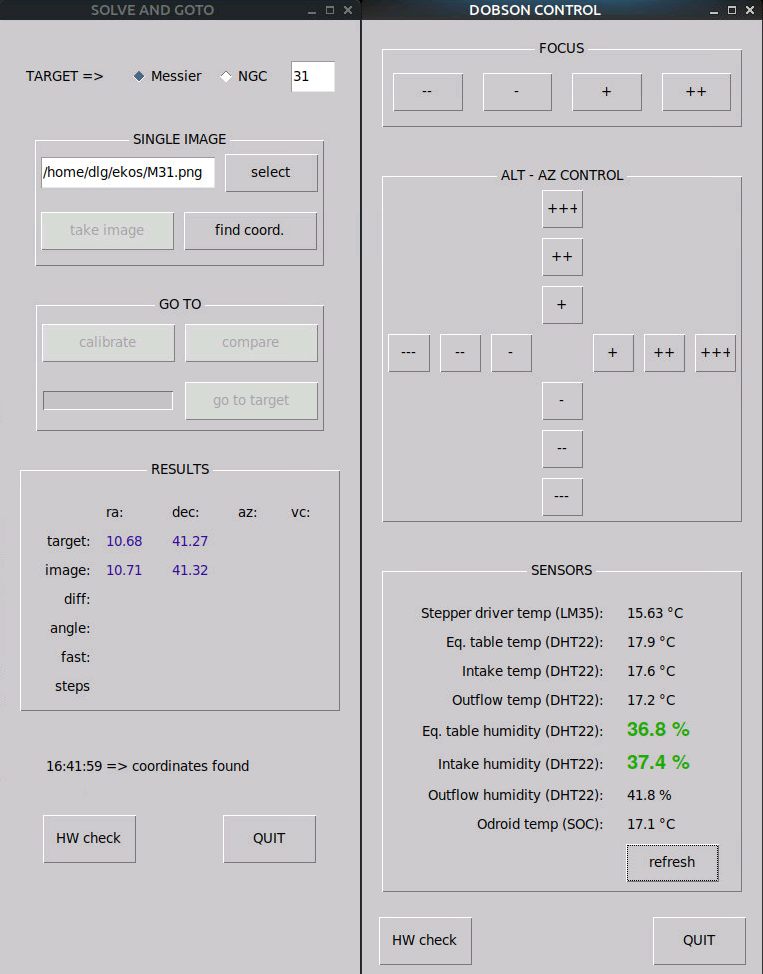
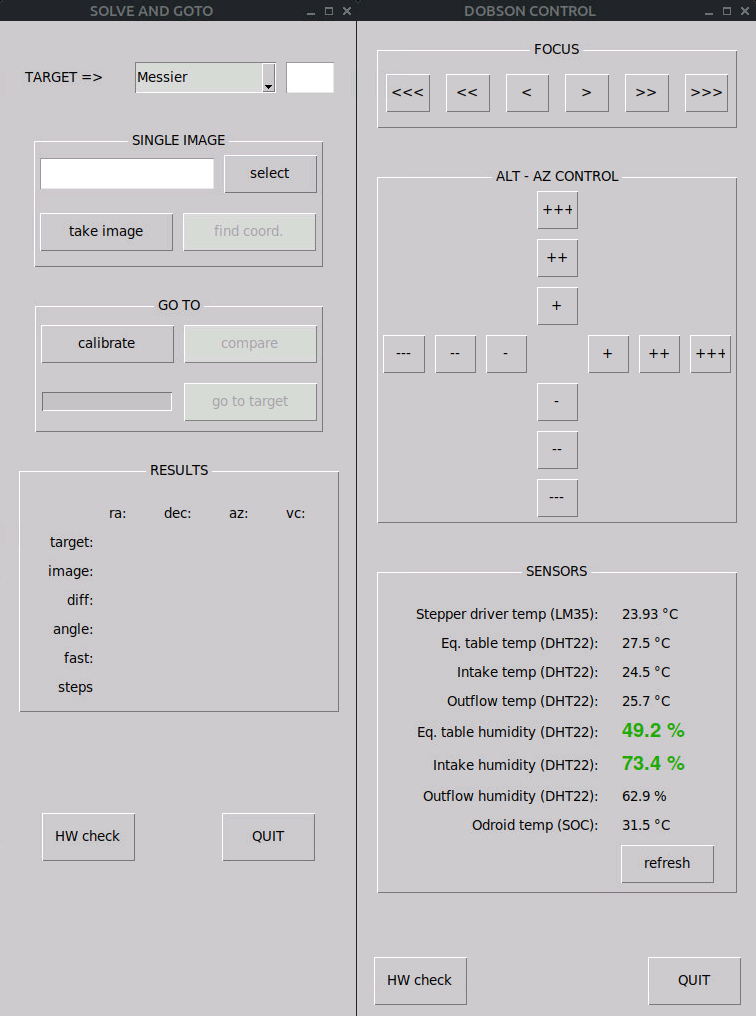
catalogue dropdown + focus 3 buttons

diff --git a/alt-az_mount/odroid_sensors_motors_gui.py b/alt-az_mount/odroid_sensors_motors_gui.py
@@ -58,7 +58,7 @@ def hw_check():
     kill and relaunch window
     """
     root.destroy()
-    subprocess.run(['python3','dobson_sensors_motors_gui.py'])
+    subprocess.run(['python3','odroid_sensors_motors_gui.py'])
     
 
 def get_sensors():
@@ -168,6 +168,12 @@ def focusmoins():
 
 def focusmoinsmoins():
     ser.write(bytes('T','UTF-8'))
+    
+def focusmoinsfine():
+    ser.write(bytes('B','UTF-8'))
+    
+def focusplusfine():
+    ser.write(bytes('N','UTF-8'))        
 
 
     
@@ -185,20 +191,27 @@ frame_focus.columnconfigure(1, weight=1)
 frame_focus.columnconfigure(2, weight=1)
 frame_focus.columnconfigure(3, weight=1)
 frame_focus.columnconfigure(4, weight=1)
+frame_focus.columnconfigure(5, weight=1)
 
 # widgets
-focus_moinsmoins_button = ttk.Button(frame_focus, text="<<",command=focusmoinsmoins)
-focus_moinsmoins_button.grid(column=0, row=0, sticky=tk.N, padx=10, pady=15, ipadx=5,ipady=5)
+focus_moinsmoins_button = ttk.Button(frame_focus, text="<<<",command=focusmoinsmoins)
+focus_moinsmoins_button.grid(column=0, row=0, sticky=tk.N, padx=8, pady=15, ipadx=5,ipady=5)
 
-focus_moins_button = ttk.Button(frame_focus, text="<",command=focusmoins)
-focus_moins_button.grid(column=1, row=0, sticky=tk.N, padx=10, pady=15, ipadx=5,ipady=5)
+focus_moins_button = ttk.Button(frame_focus, text="<<",command=focusmoins)
+focus_moins_button.grid(column=1, row=0, sticky=tk.N, padx=8, pady=15, ipadx=5,ipady=5)
+
+focus_moins_fine_button = ttk.Button(frame_focus, text="<",command=focusmoinsfine)
+focus_moins_fine_button.grid(column=2, row=0, sticky=tk.N, padx=8, pady=15, ipadx=5,ipady=5)
 
 
-focus_plus_button = ttk.Button(frame_focus, text=">",command=focusplus)
-focus_plus_button.grid(column=3, row=0, sticky=tk.N, padx=10, pady=15, ipadx=5,ipady=5)
+focus_plus_fine_button = ttk.Button(frame_focus, text=">",command=focusplusfine)
+focus_plus_fine_button.grid(column=3, row=0, sticky=tk.N, padx=8, pady=15, ipadx=5,ipady=5)
 
-focus_plusplus_button = ttk.Button(frame_focus, text=">>",command=focusplusplus)
-focus_plusplus_button.grid(column=4, row=0, sticky=tk.N, padx=10, pady=15, ipadx=5,ipady=5)
+focus_plus_button = ttk.Button(frame_focus, text=">>",command=focusplus)
+focus_plus_button.grid(column=4, row=0, sticky=tk.N, padx=8, pady=15, ipadx=5,ipady=5)
+
+focus_plusplus_button = ttk.Button(frame_focus, text=">>>",command=focusplusplus)
+focus_plusplus_button.grid(column=5, row=0, sticky=tk.N, padx=8, pady=15, ipadx=5,ipady=5)
 
 
 # define frame for steppers azimut and alt 
@@ -354,10 +367,10 @@ hw_check.grid(column=0, row=20, columnspan=2, sticky=tk.E, padx=5, pady=5, ipadx
 quit_button = ttk.Button(root, text="QUIT",command=exit)
 quit_button.grid(column=5, row=20, columnspan=2, sticky=tk.W, padx=5, pady=5, ipadx=5,ipady=10)
 
-path_to_device = Path('/dev/ttyACM0')
+arduino_is_here = subprocess.getoutput('ls /dev/ttyACM0')  #not very pythonian but path is_file returned false
 
 
-if path_to_device.is_file():
+if arduino_is_here == "/dev/ttyACM0":
     # initialise serial connection (device, baud rate)
     ser = serial.Serial('/dev/ttyACM0', 9600)
     # clear the serial line (optional)
@@ -381,6 +394,8 @@ else:
     focus_moins_button.configure(state='disabled')
     focus_plusplus_button.configure(state='disabled')
     focus_plus_button.configure(state='disabled')
+    focus_plus_fine_button.configure(state='disabled')
+    focus_moins_fine_button.configure(state='disabled')
    
 
 # the main loop keeps the window open

diff --git a/alt-az_mount/odroid_solve_and_goto_gui.py b/alt-az_mount/odroid_solve_and_goto_gui.py
@@ -107,7 +107,7 @@ def hw_check():
     kill and relaunch window
     """
     root.destroy()
-    subprocess.run(['python3','solve_and_goto.py'])
+    subprocess.run(['python3','odroid_solve_and_goto_gui.py'])
     
 
 # stepper action
@@ -309,7 +309,7 @@ def browse_image():
     """
     global filename
     image_name.delete(0,'end')          # clear field from character 0 to end
-    filename = tk.filedialog.askopenfilename(initialdir="/home/dlg/ekos/",filetypes=[("png files","*.png"),("fits files","*.fits"),("fit files","*.fit")])
+    filename = tk.filedialog.askopenfilename(initialdir="/home/dlg/Documents/python",filetypes=[("png files","*.png"),("fits files","*.fits"),("fit files","*.fit")])
     image_name.insert(tk.END, filename) # fails without this line
 
     ref = reference.get()
@@ -345,12 +345,26 @@ def get_target_coord():
     # clear error label    
     error_label.config(text="               ", background=tk_bkgd)
     # build skyobject variable with spaces as in the data file
-    if ( cat == "M" and len(ref) == 1 ):
+    if ( cat == "Messier" and len(ref) == 1 ):
         skyobject = "M   " + ref
-    if ( cat == "M" and len(ref) == 2 ):
+    if ( cat == "Messier" and len(ref) == 2 ):
         skyobject = "M  " + ref
-    if ( cat == "M" and len(ref) == 3 ):
+    if ( cat == "Messier" and len(ref) == 3 ):
         skyobject = "M " + ref
+
+    if ( cat == "IC" and len(ref) == 2 ):
+        skyobject = "IC    " + ref
+    if ( cat == "IC" and len(ref) == 3 ):
+        skyobject = "IC   " + ref
+    if ( cat == "IC" and len(ref) == 4 ):
+        skyobject = "IC  " + ref        
+        
+    if ( cat == "VDB" and len(ref) == 1 ):
+        skyobject = "vdB   " + ref
+    if ( cat == "VDB" and len(ref) == 2 ):
+        skyobject = "vdB  " + ref
+    if ( cat == "VDB" and len(ref) == 3 ):
+        skyobject = "vdB " + ref                
 
     if ( cat == "NGC" and len(ref) == 1 ):
         skyobject = "NGC    " + ref
@@ -915,12 +929,11 @@ target_label = ttk.Label(frame_target, text="TARGET =>",anchor="w",width=18)
 target_label.grid(column=0, row=1, sticky=tk.W, padx=5, pady=15)
 target_label.configure(background=tk_bkgd)
 
-messier_radio_button = ttk.Radiobutton(frame_target, text="Messier", value="M", variable=catalog, width=12)
-messier_radio_button.grid(column=1, row=1, sticky=tk.E, padx=5, pady=5, ipadx=5,ipady=5)
-messier_radio_button.invoke()
 
-ngc_radio_button = ttk.Radiobutton(frame_target, text="NGC",value="NGC", variable=catalog, width=10)
-ngc_radio_button.grid(column=2, row=1, sticky=tk.W, padx=5, pady=5, ipadx=5,ipady=5)
+catalog_dropdown = ttk.Combobox(frame_target,textvariable=catalog,state='readonly')
+catalog_dropdown['values']=('Messier','NGC','IC','VDB')
+catalog_dropdown.grid(column=1, row=1, sticky=tk.E, padx=5, pady=5, ipadx=5,ipady=5) 
+catalog_dropdown.set('Messier')
 
 object_ref = ttk.Entry(frame_target,textvariable=reference,width=10)
 object_ref.grid(column=3, row=1, sticky=tk.W, padx=5, pady=5, ipadx=5,ipady=5)

diff --git a/README.md b/README.md
@@ -136,8 +136,8 @@ You can see more images on my [astrobin](https://www.astrobin.com/users/d.legour
 
 # ROADMAP
 
-* v2. implement a function for autofocus and manage backlash
-* v3. autoguiding with a refractor added to one of the side bearings
+* implement a function for autofocus and manage backlash
+* autoguiding with a refractor added to one of the side bearings
 
 
 
